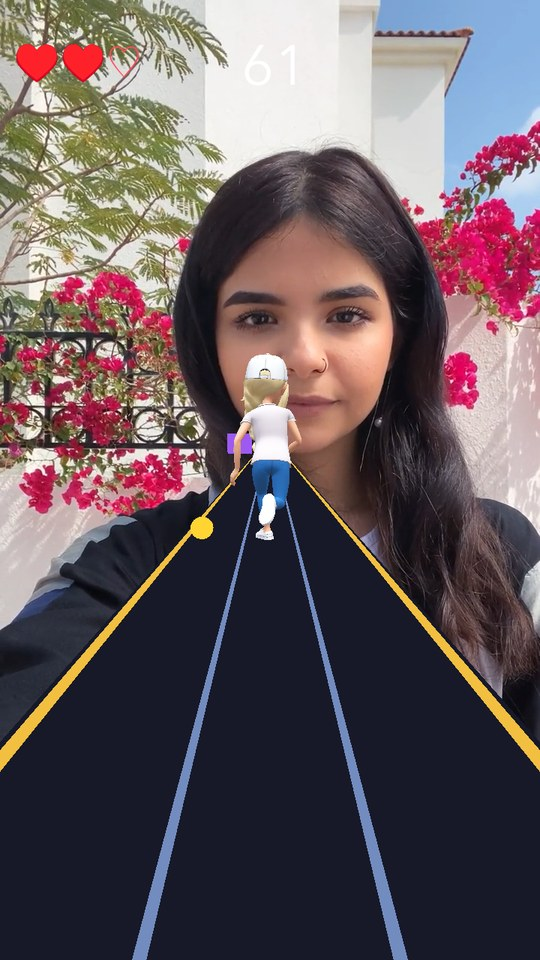
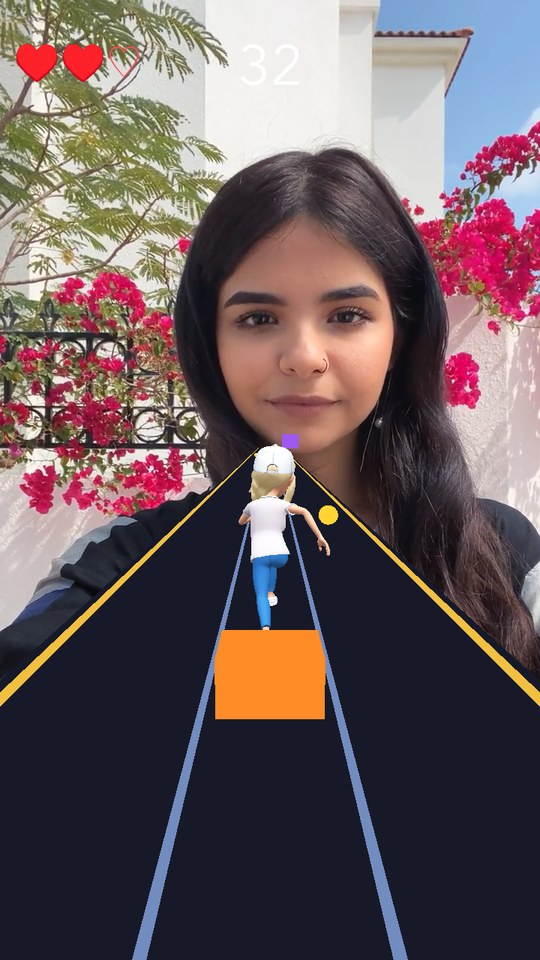
Поза очікування після Game Over, повернення бігу на рестарті, ширша доріжка
Idle: готового кліпа для рига немає (Mixamo-набір з туторіалу — лише біг
і два strafe, Bitmoji 3D вміє тільки default/bodyTracking). Просто
зупинити кліпи не можна — з нульовими вагами риг падає в T-позу. Тому
поза очікування це зупинений кадр бігу з вертикальним корпусом плюс
легке дихання синусом; кадр і амплітуда винесені в GameConfig.

Персонаж висів над доріжкою на ~8 см: висоту я підбирав по bind-позі, а
анімація бігу тримає модель вище. Саме це давало ефект «біжить у
повітрі», а на висоті персонажа рейлінги проходять ближче до центру, тож
здавалося ще й що він за межами траси. Локалізував двома кубиками на
землі в крайніх смугах — лягли симетрично й усередині рейлінгів, тобто
ширина й симетрія були ні до чого.

Доріжку все одно розширив (32 -> 40, рейлінги на ±18.5), але симетрично:
одностороннє розширення зробило б трасу кривою.

Скріншоти в README перезняті — геометрія змінилася.

diff --git a/Assets/Scripts/PlayerController.ts b/Assets/Scripts/PlayerController.ts
@@ -49,6 +49,11 @@ export class PlayerController extends BaseScriptComponent {
     private currentLane: number = 1;
     private baseY: number = 0;
     private baseScale: vec3 = vec3.one();
+    private baseVisualPos: vec3 = vec3.zero();
+
+    /** У режимі очікування персонаж стоїть: біг зупинено, працює лише «дихання». */
+    private idle: boolean = false;
+    private idleTimer: number = 0;
 
     private isJumping: boolean = false;
     private isSliding: boolean = false;
@@ -63,6 +68,7 @@ export class PlayerController extends BaseScriptComponent {
         const transform = this.getSceneObject().getTransform();
         this.baseY = transform.getLocalPosition().y;
         this.baseScale = this.playerVisual.getTransform().getLocalScale();
+        this.baseVisualPos = this.playerVisual.getTransform().getLocalPosition();
 
         this.setupAnimation();
         this.createEvent('UpdateEvent').bind(() => this.onUpdate());
@@ -139,6 +145,36 @@ export class PlayerController extends BaseScriptComponent {
         return true;
     }
 
+    /**
+     * Зупиняє біг і ставить персонажа в позу очікування.
+     * Викликається, коли гра завершилась.
+     *
+     * Готового Idle-кліпа для цього рига немає, а просто зупинити всі
+     * кліпи не можна: з нульовими вагами риг падає в bind-позу, тобто
+     * в T-позу. Тому беремо кадр наявної анімації, лишаємо його як
+     * статичну стійку і додаємо ледь помітне «дихання» — без нього
+     * персонаж виглядає як зламана модель, а не як той, хто чекає.
+     */
+    enterIdle() {
+        this.idle = true;
+        this.idleTimer = 0;
+
+        // Скидаємо незавершені дії, щоб персонаж не «завис» у стрибку.
+        this.isJumping = false;
+        this.isSliding = false;
+        this.applySlideScale(false);
+
+        this.freezeAnimationAtPose();
+    }
+
+    /** Повертає біг. Викликається на старті та рестарті. */
+    enterRun() {
+        this.idle = false;
+        this.idleTimer = 0;
+        this.playerVisual.getTransform().setLocalPosition(this.baseVisualPos);
+        this.restoreAnimationPlayback();
+    }
+
     /** Повертає гравця в стартовий стан — використовується при рестарті. */
     reset() {
         this.currentLane = 1;
@@ -195,6 +231,14 @@ export class PlayerController extends BaseScriptComponent {
 
     private onUpdate() {
         const dt = getDeltaTime();
+
+        // У режимі очікування персонаж лише дихає — смуги, стрибок і
+        // блендінг strafe тут не мають сенсу.
+        if (this.idle) {
+            this.updateIdleBreathing(dt);
+            return;
+        }
+
         const transform = this.getSceneObject().getTransform();
         const position = transform.getLocalPosition();
 
@@ -261,5 +305,56 @@ export class PlayerController extends BaseScriptComponent {
         if (clip) {
             clip.weight = weight;
         }
+    }
+
+    /** Зупиняє час усіх кліпів і лишає видимим лише кадр-стійку. */
+    private freezeAnimationAtPose() {
+        if (!this.animationPlayer) {
+            return;
+        }
+        const names = [PlayerController.CLIP_RUN, PlayerController.CLIP_LEFT, PlayerController.CLIP_RIGHT];
+        for (const name of names) {
+            const clip = this.animationPlayer.getClip(name);
+            if (clip) {
+                clip.weight = name === CONFIG.idlePoseClip ? 1 : 0;
+            }
+        }
+
+        // Перемотуємо на потрібний кадр, і аж потім зупиняємо час:
+        // playClipAt() запускає відтворення, тож нульова швидкість має
+        // виставлятися після нього, інакше кліп поїде далі.
+        this.animationPlayer.playClipAt(CONFIG.idlePoseClip, CONFIG.idlePoseTime);
+        for (const name of names) {
+            const clip = this.animationPlayer.getClip(name);
+            if (clip) {
+                clip.playbackSpeed = 0;
+            }
+        }
+    }
+
+    /** Знімає паузу з кліпів після виходу з очікування. */
+    private restoreAnimationPlayback() {
+        if (!this.animationPlayer) {
+            return;
+        }
+        const names = [PlayerController.CLIP_RUN, PlayerController.CLIP_LEFT, PlayerController.CLIP_RIGHT];
+        for (const name of names) {
+            const clip = this.animationPlayer.getClip(name);
+            if (clip) {
+                clip.playbackSpeed = 1;
+            }
+        }
+        this.applyClipWeights(0);
+    }
+
+    /** Ледь помітне вертикальне «дихання», щоб стійка не виглядала мертвою. */
+    private updateIdleBreathing(dt: number) {
+        this.idleTimer += dt;
+        const offset = Math.sin(this.idleTimer * CONFIG.idleBreathSpeed) * CONFIG.idleBreathAmplitude;
+        this.playerVisual
+            .getTransform()
+            .setLocalPosition(
+                new vec3(this.baseVisualPos.x, this.baseVisualPos.y + offset, this.baseVisualPos.z)
+            );
     }
 }

diff --git a/Assets/Scripts/GameConfig.ts b/Assets/Scripts/GameConfig.ts
@@ -71,6 +71,19 @@ export const CONFIG = {
     /** Нижче цієї висоти стрибок ще не рятує від низької перешкоди, см. */
     jumpClearHeight: 6,
 
+    // --- Поза очікування (Idle) ---
+    /**
+     * Готового Idle-кліпа для цього рига немає, тож поза очікування — це
+     * зупинений кадр наявної анімації плюс «дихання» кодом. Ці два числа
+     * задають, який саме кадр брати за стійку.
+     */
+    idlePoseClip: 'Run',
+    idlePoseTime: 0.12,
+    /** Амплітуда «дихання» по вертикалі, см. */
+    idleBreathAmplitude: 0.35,
+    /** Швидкість «дихання», рад/с. */
+    idleBreathSpeed: 2.2,
+
     // --- Життя ---
     maxLives: 3,
     /** Недоторканність після удару, с — щоб одна перешкода не зняла два життя. */

diff --git a/Assets/Scripts/GameManager.ts b/Assets/Scripts/GameManager.ts
@@ -151,6 +151,7 @@ export class GameManager extends BaseScriptComponent {
 
         this.scoreManager.reset();
         this.player.reset();
+        this.player.enterRun();
         this.spawner.reset();
         this.spawner.setRunning(true);
 
@@ -162,6 +163,8 @@ export class GameManager extends BaseScriptComponent {
     private endGame() {
         this.state = GameState.GameOver;
         this.spawner.setRunning(false);
+        // Третє зіткнення — біг зупиняється, персонаж переходить у стійку.
+        this.player.enterIdle();
         this.ui.showGameOver(this.scoreManager.getScore(), this.scoreManager.getBest());
     }
 

diff --git a/README.md b/README.md
@@ -10,7 +10,7 @@ Bitmoji-персонаж біжить по трьох смугах, оминає
 | Меню | Гра | Game Over |
 |:---:|:---:|:---:|
 | <img src="Docs/menu.jpg" alt="Стартовий екран" width="240"> | <img src="Docs/gameplay.jpg" alt="Геймплей" width="240"> | <img src="Docs/gameover.jpg" alt="Екран завершення" width="240"> |
-| Назва, підказка старту<br>і нагадування про жести | Персонаж у центрі; ліворуч<br>підвісна перешкода й монетка.<br>У HUD життя (♥♥♡) і рахунок | Рахунок заїзду, рекорд сесії<br>і рестарт по тапу |
+| Назва, підказка старту<br>і нагадування про жести | Низька перешкода в центрі,<br>монетка праворуч.<br>У HUD життя (♥♥♡) і рахунок | Біг зупинено, персонаж<br>у позі очікування; рахунок,<br>рекорд і рестарт по тапу |
 
 ## Відповідність завданню
 
@@ -19,7 +19,7 @@ Bitmoji-персонаж біжить по трьох смугах, оминає
 | Bitmoji з анімаціями | біг + strafe-нахили при зміні смуги |
 | Перешкоди, які можна оббігати й перестрибувати | три типи: стіна, низька, підвісна (+ підкат) |
 | Зіткнення віднімає життя | з вікном недоторканності 0.9 с |
-| Три колізії завершують гру | екран Game Over з рахунком і рекордом |
+| Три колізії завершують гру | біг зупиняється, персонаж переходить у позу очікування; екран Game Over з рахунком і рекордом |
 | Спосіб керування на вибір | свайпи + тап |
 | Рестарт без виходу з лінзи | тап на екрані Game Over |
 | Обʼєкти за бали + рахунок в UI | монетки (10) і час виживання (2/с), лічильник у HUD |
@@ -104,6 +104,14 @@ FPS і легко дебажиться. Тип перешкоди задає й 
 повну як база пози, `Left`/`Right Strafe` домішуються рівно настільки, наскільки
 персонаж зміщується вбік. Менше конфігурації, поведінка видима прямо в коді.
 
+**Поза очікування зібрана з того, що є.** Готового Idle-кліпа для цього рига немає:
+Mixamo-набір з туторіалу — це лише `Fast Run` і два strafe, а компонент `Bitmoji 3D`
+вміє тільки `default` і `bodyTracking`. Просто зупинити всі кліпи не можна — з
+нульовими вагами риг падає в bind-позу, тобто в T-позу. Тому Idle — це зупинений
+кадр бігу (`playbackSpeed = 0` на моменті, де ноги зведені, а корпус вертикальний)
+плюс легке «дихання» синусом по вертикалі. Без дихання персонаж читається як зламана
+модель, а не як той, хто чекає. Кадр і амплітуда винесені в `GameConfig`.
+
 **Перешкоди їдуть у бік `+Z`.** У Lens Studio `-Z` — це «вперед», а камера стоїть на
 `z=36` позаду гравця. Обʼєкти народжуються на `z=-280` і рухаються до камери.
 
@@ -179,6 +187,7 @@ Bitmoji-персонаж, Mixamo-анімації (`Fast Run`, `Left Strafe`, `R
 | Свайп угору двічі за 120 мс | один звук (стрибок ще триває) | один |
 | Свайп уліво тричі поспіль | один звук (далі край доріжки) | один |
 | Усі пʼять звуків | спрацьовують на своїх подіях | усі пʼять |
+| «Дихання» в позі очікування | коливання в межах ±0.35 см | -12.28 → -11.97 |
 
 Три помилки знайшлися лише запуском — не читанням коду:
 
@@ -189,6 +198,13 @@ Bitmoji-персонаж, Mixamo-анімації (`Fast Run`, `Left Strafe`, `R
    на екрані величезний білий прямокутник поверх сцени.
 3. **Орієнтація примітива.** Меш площини вже лежить у XZ, тож «правильний» поворот
    на -90° ставив землю на ребро, і вона зникала з кадру.
+4. **Персонаж висів над доріжкою.** Висоту я підібрав по bind-позі, але анімація бігу
+   тримає модель вище — вийшов зазор у ~8 см. На екрані це читалось як «персонаж і
+   перешкоди летять у повітрі повз трасу»: на висоті персонажа рейлінги, що лежать на
+   землі й сходяться до горизонту, проходять ближче до центру, тож він здавався за
+   межами доріжки. Локалізував двома контрольними кубиками, покладеними просто на
+   землю в крайніх смугах: вони лягли симетрично й усередині рейлінгів — отже проблема
+   була у висоті персонажа, а не в ширині чи асиметрії траси.
 
 ## Що свідомо не робив
 
